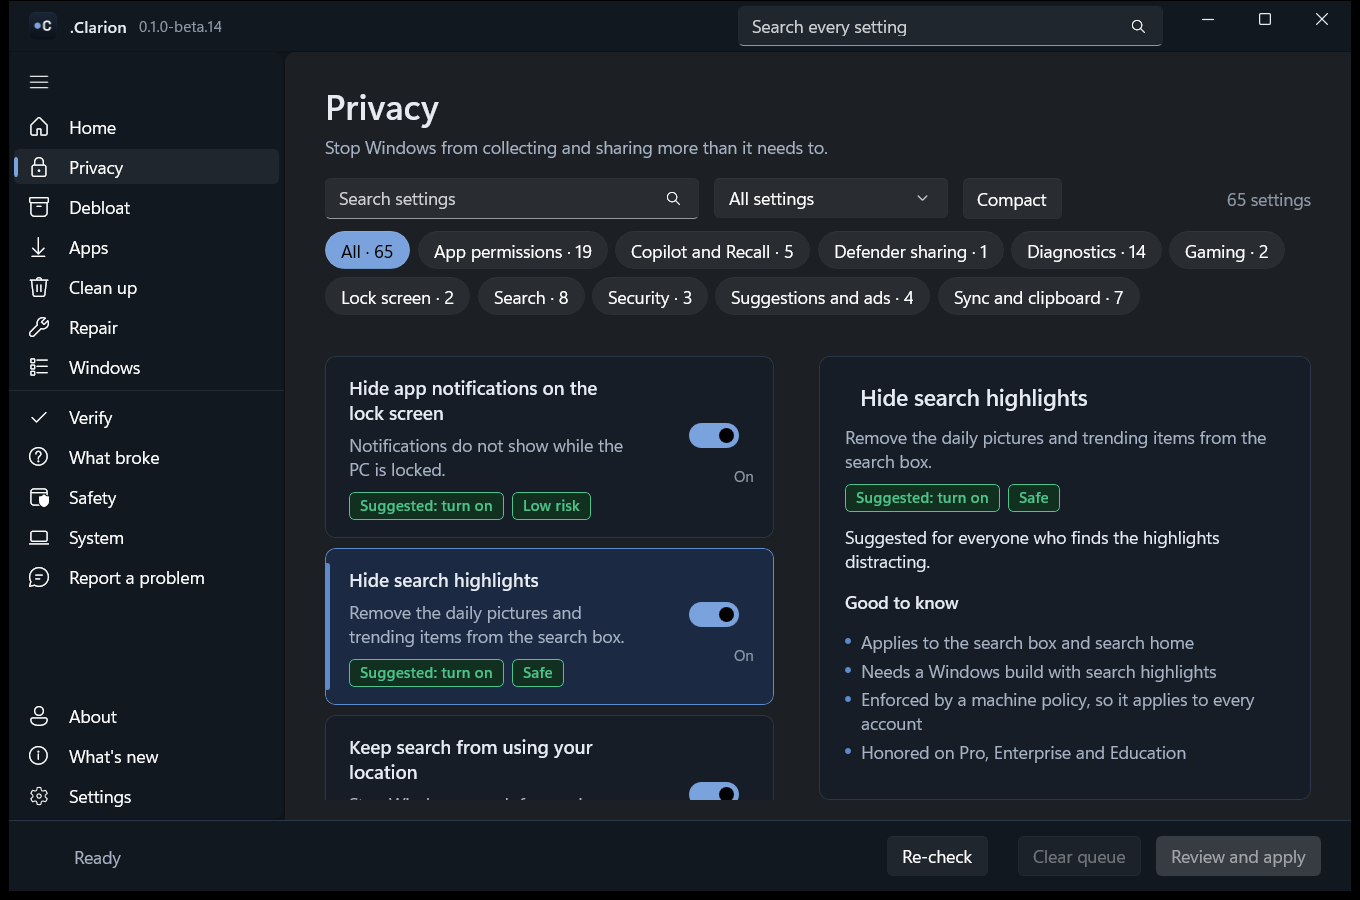
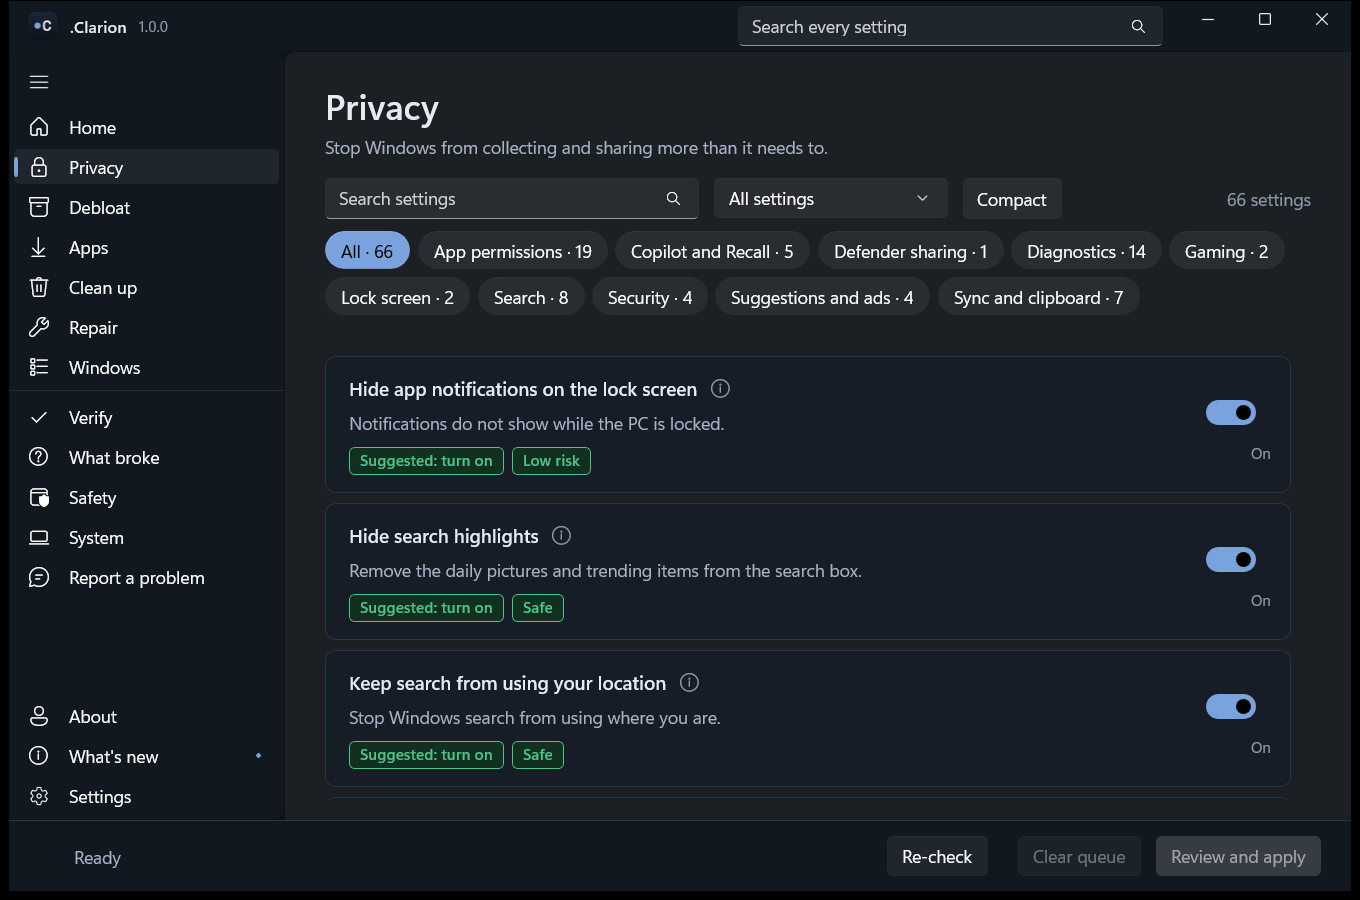
Describe the info button and the new settings in the changelog
Also puts a new Privacy screenshot in the readme and updates the
design notes that still described a detail pane.

diff --git a/CHANGELOG.md b/CHANGELOG.md
@@ -1,5 +1,17 @@
 # Changelog
 
+## Unreleased
+
+New
+- Four NVIDIA graphics driver settings: low latency mode On, power management prefer maximum performance, no shader cache size limit and high performance texture filtering. They read and write the driver's global profile through NVIDIA's own NVAPI library, with the setting numbers and values from NVIDIA's public header, and no third party program. Each one stores what it replaced, including that nothing was stored, so Revert puts back exactly that. Each was applied and reverted on a GeForce RTX 2060 from two start states. They show as not available on a PC without an NVIDIA card.
+- Settings for Optimizations for windowed games, on and off, written as the one entry they change inside the text value Windows keeps for graphics choices, so other entries such as the variable refresh rate choice are kept. Also Multi-Plane Overlay off (the value in NVIDIA's own mpo_disable.reg), Teredo off (Microsoft's policy), seconds in the taskbar clock, two Outlook settings (hide the Try the new Outlook switch, stop the automatic move) and two Edge policies (Do Not Track, the Asset Delivery Service).
+- Two repair jobs. Put TCP settings back to Windows defaults runs netsh int tcp reset. On the PC it was tried on, another tool had set ECN on, timestamps off and the CTCP congestion provider, and Windows 11 build 26200 defaults to ECN off, timestamps allowed and CUBIC. Release and renew the IP address runs ipconfig /release and /renew.
+- docs/RESEARCH-OTHER-TOOLS.md has what Sparkle's network and NVIDIA tweaks set, the measured Windows defaults, and why the other network tweaks that were looked up were not built.
+
+Polish
+- The pane on the right of every list is gone. Each setting, repair job and cleanup row has a circled i that opens the same explanation, including the exact changes and sources in Expert mode, in a flyout beside it. It opens with a click or the keyboard, so it also works for touch and screen readers, and the lists use the full width.
+- The topic buttons above a list now count what the search box and filter leave. Searching for NVIDIA showed All 343 over five results before.
+
 ## 1.0.0
 
 Safer

diff --git a/docs/DESIGN.md b/docs/DESIGN.md
@@ -25,7 +25,7 @@ Every entry in the catalog has these fields.
 |---|---|
 | `id` | Stable identifier |
 | `name`, `summary` | One line each, plain language |
-| `what`, `benefit`, `risk` | Short paragraphs shown in the detail pane |
+| `what`, `benefit`, `risk` | Short paragraphs shown under the i button beside each setting |
 | `evidence` | `Proven`, `Situational`, `Cosmetic`, `Unproven` |
 | `risk_level` | `Safe`, `Low`, `Medium`, `High` |
 | `scope` | `Machine` or `User` |
@@ -52,8 +52,8 @@ A WinUI 3 window with Mica backdrop, a left navigation rail, a content area, and
 +--------+---------------------------------------------+
 | Rail   |  Header: page title, search, Preset picker  |
 |        +---------------------------------------------+
-| Home   |  Tweak list (cards)      | Detail pane      |
-| Debloat|  toggle + summary        | What it does     |
+| Home   |  Tweak list (cards)      | i button opens   |
+| Debloat|  toggle + summary, i     | What it does     |
 | Privacy|  risk badge, state dot   | Benefit, Risk    |
 | Tweaks |                          | Exact changes    |
 | Network|                          | Revert           |

diff --git a/README.md b/README.md
@@ -25,7 +25,7 @@ Every change is explained, graded by evidence, backed up and reversible.
 - **Safe by design.** A restore point before every batch, a journal that records the real previous value, and one click revert.
 - **Honest.** No telemetry in the app and no account. .Clarion's own only request is an update check, and that is off unless you ask for it. The Apps page runs winget, Microsoft's package manager, which talks to Microsoft's package source and the publishers' download sites, and it does so only when you open that page or install an app. Weak or unproven tweaks are hidden unless you turn on Expert mode.
 
-![Privacy settings with the detail pane](docs/images/privacy.png)
+![Privacy settings, each with an i button that opens its details](docs/images/privacy.png)
 
 ## What it does
 
